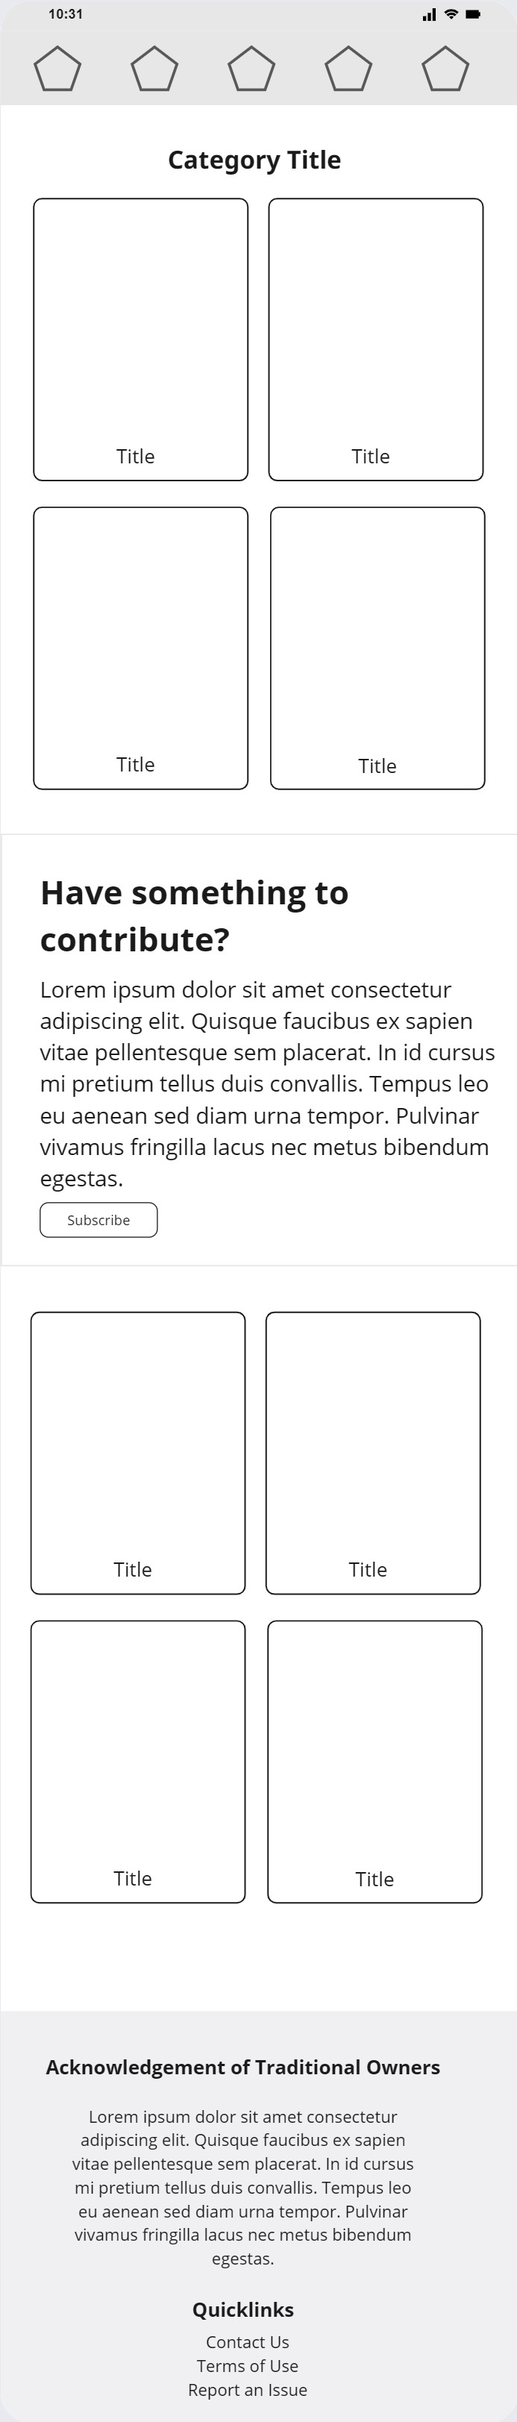
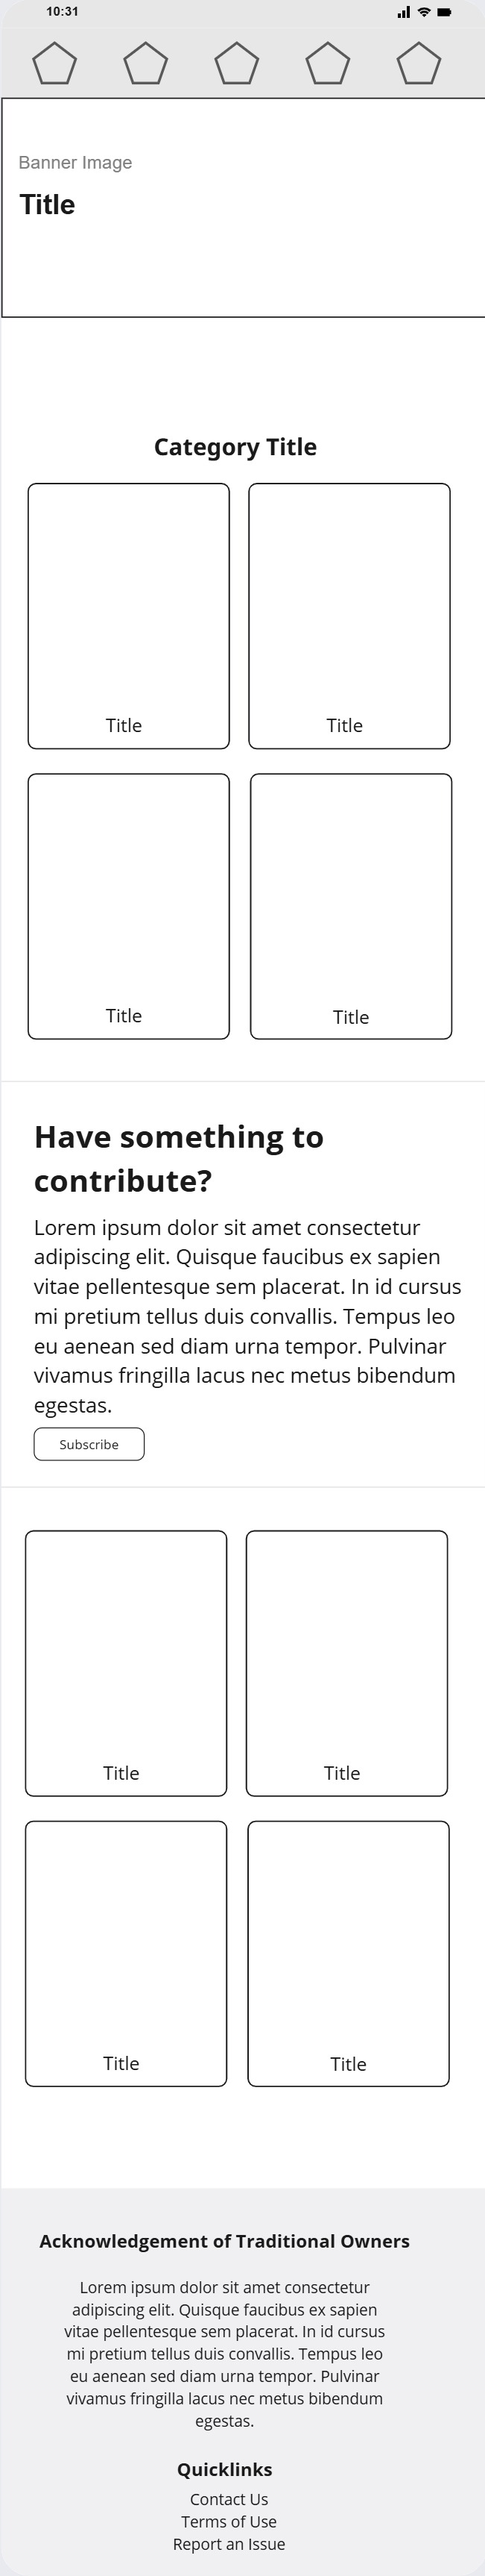
Visceral Design
- Added Content to Visceral Design
- Update the Wireframes PNG images
- Added bootstrap helper classes to improve design.

diff --git a/work_phase_3/visceral_design.html b/work_phase_3/visceral_design.html
@@ -84,86 +84,69 @@
                     <li><a href="./index.html">Home</a></li>
                     <li><a href="./style_guide.html">Style Guide</a></li>
                 </ul>
-                <div class="page-title">Visceral Design</div>
-
+                <div class="page-title mt-4">Visceral Design</div>
+<div class="mt-4"></div>
                                 <div class="highlight-box">
                     <h2>
-                        Here you will find wireframes for the most commonly used pages in the website. They are designed to provide an example of the page layouts and the user's impression of navigability and organisation of the website. 
+                        We want your website to make a great first impression, allowing visitors to feel comfortable the moment they arrive. Here you will discover how we use Visceral Design to create intuitive, familiar and functional websites that create trust and encourage engagement. 
 
                     </h2>
                 </div>
-                <h2>Web Layouts</h2>
+                <div class="mt-6"></div>
+
+                <h1>Web Layouts</h1>
                 <div class="styleguide-layout">
-    <span class="textbox-left"><h3>Home Page</h3><p>When users first land on the Home Page we want them to get an immediate sense of the content they can expect from the site and their navigation options. The </p></span><span class="textbox-right">                    <section class="gallery m-t-3">
+    <span class="textbox-left"><h3>Home Page</h3><p>The Home Page will often be your visitor's first experience of the website Ee wish to quickly communicate how the site will meet their needs through access to resources, access to the community, and inspiration through stories.</p><p> We use a large banner just under the navigation bar for images that evoke curiousity and interest, and a box that promotes a feature story to encourage further engagement. It also creates visual space between the navigation bar and the page content which reduces clutter and suggests intentional design. Quick access to resources is priority for your community, so we have added quicklinks to key resources and community interaction at the top of the main content as well as quicklinks to recent activity to give visitors a feel for how often the page is updated which is a signifier of how active the community is. A navigation bar at the top of the page adheres to familiar design conventions helping to improve navigability.</p></span><span class="textbox-right">                    <section class="gallery m-t-3">
                         <img
                             src="./assets/wireframes/wireframe_web_hompage.jpg"
                             alt="Proposed wireframe for home page."
                         /></section></span></div>
                                         <div class="styleguide-layout">
-    <span class="textbox-left"><p>content in here</p></span><span class="textbox-right">                    <section class="gallery m-t-3">
+    <span class="textbox-left"><h3>Category Pages</h3><p>Category pages, such as Kit Specific Guides and Personal Stories, will contain a number of links to content pages. Borrowing from the idea of magazines in a magazine rack, we will present these links as cards displayed in a grid pattern across the page. The simple, repetitive design reduces clutter and improves navigability with assistive technologies, while the large format of the cards allows for supporting images that evoke interest. The grid will be punctuated at intervals with calls to action such as the Newsletter Signup Form or submitting a story, and the design of this section will be visually distinct so as to not cause confusion. </p></span><span class="textbox-right">                    <section class="gallery m-t-3">
                         <img
                             src="./assets/wireframes/wireframe_web_category.jpg"
                             alt="Proposed wireframe for subsection page."
                         /></section></span></div>
                                         <div class="styleguide-layout">
-    <span class="textbox-left"><p>content in here</p></span><span class="textbox-right">                    <section class="gallery m-t-3">
+    <span class="textbox-left"><h3>Content Page</h3><p>The majority of these pages are reserved for the primary purpose (for example, describing a technique). To the right of this block there will be a side bar that promotes feature articles to encourage further interaction and promote the site's additional content, and a recent activity feed so users can easily see and navigate to recent posts or updates. We commonly see this structure in content websites and users will be accustomed to this layout.
+        
+        As these pages are devoted to a specific purpose (such as describing a technique or display a user story) the larger proportion of the page is reserved </p></span><span class="textbox-right">                    <section class="gallery m-t-3">
                           <img
                             src="./assets/wireframes/wireframe_web_article.jpg"
                             alt="Proposed wireframe for article page."
                         /></section></span></div>
+                            <h1>Mobile Layouts</h1>
+
                                         <div class="styleguide-layout">
-    <span class="textbox-left"><p>content in here</p></span><span class="textbox-right">                    <section class="gallery m-t-3">
+                                            <span class="textbox-left"><h3>Home Page</h3><p>The content for the mobile version of the home page will be the same as the web version however content will be stacked vertically. This allows for interactive features such as navigation buttons and cards to retain their width and their accessibility as a result.</p></span><span class="textbox-right">                    <section class="gallery m-t-3">
                         <img
                             src="./assets/wireframes/Wireframe_Mobile_Homepage.jpg"
                             alt="Proposed wireframe for home page."
                         /></section></span></div>
                         <div class="styleguide-layout">
-    <span class="textbox-left"><p>content in here</p></span><span class="textbox-right">                    <section class="gallery m-t-3">
+    <span class="textbox-left"><h3>Category Pages</h3><p>As above, vertical stacking will take precedance and cards will wrap with fewer per row to help maintain their width. </p></span><span class="textbox-right">                    <section class="gallery m-t-3">
                   <img
                             src="./assets/wireframes/wireframe_mobile_category.jpg"
                             alt="Proposed wireframe for subsection page."
                         /></section></span></div>
                                         <div class="styleguide-layout">
-    <span class="textbox-left"><p>content in here</p></span><span class="textbox-right">                    <section class="gallery m-t-3">
+    <span class="textbox-left"><h3>Content Page</h3><p>Page content will again be stacked vertically. Where the side bar appeared alongside the main cotent in the web version, it will now appear below the comments sections to ensure logical grouping of these elements. </p></span><span class="textbox-right">                    
+                
+        <section class="gallery m-t-3">
                         <img
                             src="./assets/wireframes/wireframe_mobile_article.jpg"
                             alt="Proposed wireframe for article page."
                         /></section></span></div>
-    <h2>Typography</h2>
+    <h1>Colour Scheme</h1>
+                        <div class="styleguide-layout">
+    <span class="textbox-left"><p>The colour scheme is inspired by Christopher Walsh's <a href="https://www.saatchiart.com/en-cy/art/Painting-Khersones-Russian-Tall-Ship/597010/8351514/view?srsltid=AfmBOorgMwdbF865OR0x6nbELF2Rmw3wiZuXKDagLuCdZ-Qf6VZqJiCX">Kherson's, Russian Tall Ship</a>. While blue and white are synonymous with boating and nautical pursuits, this is also a colour scheme commonly found in corporate environments. To ensure the website feels welcoming and organic we have instead favoured greens which also serves to acknowledge the diversity of the sea's colours, metaphorically representing the diversity of our community. The tonal combinations can be used to create either cool or warm combinations as needed. The palette includes high contrast colours allowing for colour combinations to meet WCAG 2.2 guidelines. </p></span><span class="textbox-right"><img src="assets/colours/Screenshot 2025-10-02 151627.png"></span></div> 
+                        <h1>Typography</h1>
 <div class="styleguide-layout">
-    <span class="textbox-left"><p>content in here</p></span><span class="textbox-right"><div class="page-title">Page Title</div><h1>Heading 1</h1><h2>Heading 2</h2><h3>Heading 3</h3><p>Paragraph</p></span></div>   
-                    <!-- gallery of small images -->
-                     <h1>Web Layouts</h1>
-                    <section class="gallery m-t-3">
-                        <img
-                            src="./assets/wireframes/wireframe_web_hompage.jpg"
-                            alt="Proposed wireframe for home page."
-                        />
-                        <img
-                            src="./assets/wireframes/wireframe_web_category.jpg"
-                            alt="Proposed wireframe for subsection page."
-                        />
-                        <img
-                            src="./assets/wireframes/wireframe_web_article.jpg"
-                            alt="Proposed wireframe for article page."
-                        />
+    <span class="textbox-left"><p>Cinzel has been chosen for the Page Title due to its nautical style design. As a serif font, it should be used sparingly and only at large sizes due to the decrease in readability as the size decreases. 
+        The remaining headings and paragraphs use Inter due to its high web readability, even at small sizes, and its design compatibility with Cinzel.</p></span><span class="textbox-right"><div class="page-title">Page Title</div><h1>Heading 1</h1><h2>Heading 2</h2><h3>Heading 3</h3><p>Paragraph</p></span></div>   
 
-                    </section>
 
-                    <h3>Mobile Layouts</h3>
-                    <section class="gallery m-t-3">
-                        <img
-                            src="./assets/wireframes/Wireframe_Mobile_Homepage.jpg"
-                            alt="Proposed wireframe for home page."
-                        />
-                        <img
-                            src="./assets/wireframes/wireframe_mobile_category.jpg"
-                            alt="Proposed wireframe for subsection page."
-                        />
-                        <img
-                            src="./assets/wireframes/wireframe_mobile_article.jpg"
-                            alt="Proposed wireframe for article page."
-                        />
+
 
                     </section>
                     <!-- Large Image Viewer -->

diff --git a/work_phase_3/css/components.css b/work_phase_3/css/components.css
@@ -7,7 +7,6 @@
     NAVIGATION MENUS 
 -----------------------*/
 
-/* Responsive control for mobile */
 #nav-mobile {
     position: fixed;
     bottom: 0;
@@ -20,7 +19,6 @@
     display: none;
 }
 
-/* Responsive control for tablets and computers */
 @media only screen and (min-width: 768px) {
     #nav-desktop {
         display: block;
@@ -92,15 +90,19 @@
 }
 
 /* Responsive banner image */
+
 .banner-image {
     display: block;
     width: 100%;
-    height: auto; /* keeps aspect ratio */
-    max-height: 485px; /* optional: limit banner height */
+    height: 200px; /* optional: limit banner height */
     object-fit: cover; /* ensures image fills space without distortion */
 }
 
+@media (min-width: 768px) { .banner-image {
+    height: 485px; /* optional: limit banner height */
+}
 
+}
 /*--------------------
     BREADCRUMB MENU
 ----------------------*/
@@ -145,7 +147,7 @@ ul.breadcrumb li a:hover {
 
 
 
-/*
+/*-----------------
     HIGHLIGHT BOX
 -------------------*/
 
@@ -153,10 +155,11 @@ ul.breadcrumb li a:hover {
 .highlight-box {
     height: auto;
     margin: 0 auto;
-    padding: 1rem;
+    padding: 2rem 4rem;
     background-color: var(--box-color);
     border-radius: 10px;
     box-shadow: 0px 0px 3px 5px var(--box-color);
+    text-align: center;
 
 }                                                        
 

diff --git a/work_phase_3/css/component_skeletons/cards.css b/work_phase_3/css/component_skeletons/cards.css
@@ -20,6 +20,7 @@
     padding: 1rem;
     box-shadow: 0 2px 6px var(--text-color); /* subtle drop shadow */
     flex: 1 1 100%; /* take full width on mobile */
+    line-height: 0;
 }
 
 .card img {
@@ -38,12 +39,6 @@
   outline-offset: 2px;
 }
 
-
-
-
-.card-text {
-
-}
 
 /* Larger Screens */
 @media (min-width: 768px) {
